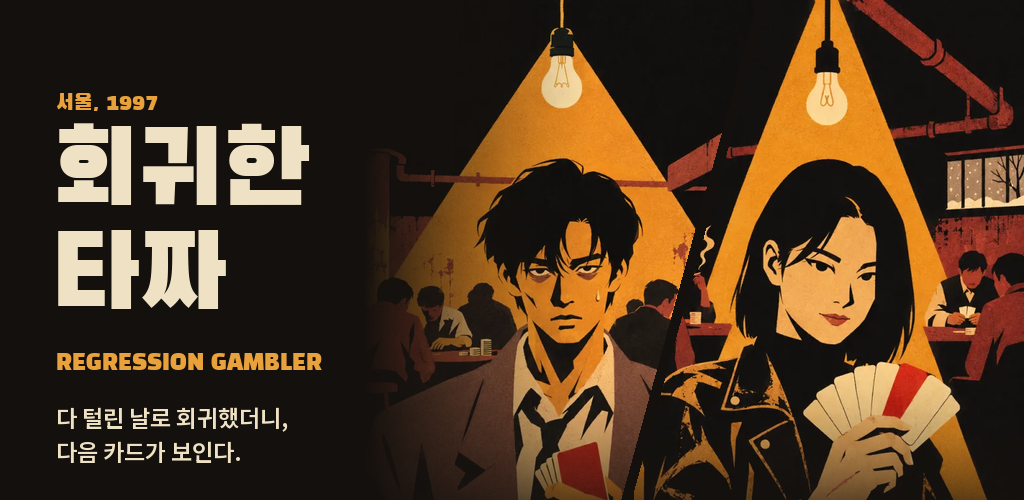
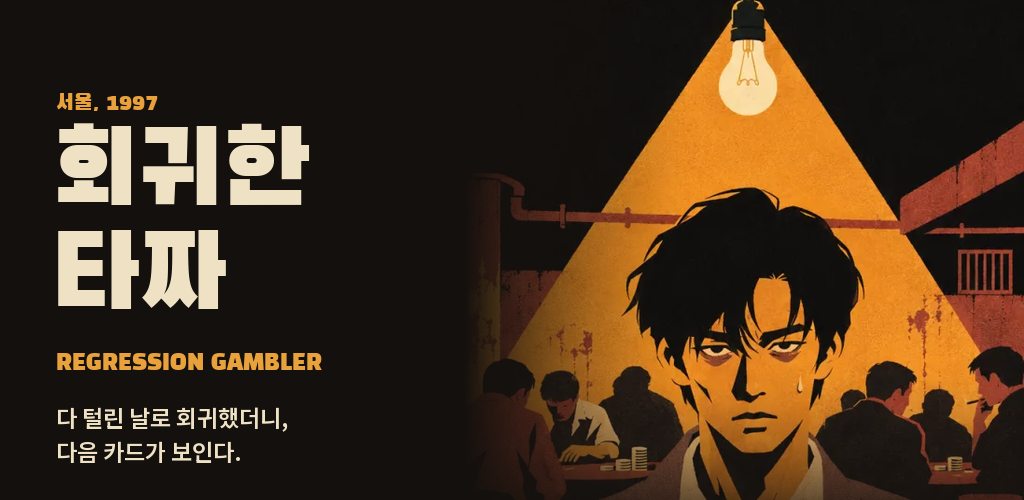
사이트에서 두 번째 주인공과 회귀자 대결을 뺀다
게임은 윤동욱 한 사람의 이야기로 시작하고, 그의 5장을 깨기 전에는
두 번째 주인공을 게임 안팎 어디에도 드러내지 않는다(게임 CLAUDE.md,
사용자 2026-11-22). 회귀자 대결은 게임에서 없어졌다.

- "주인공 둘 / Two heroes" 칸(차수진 카드, 회귀자 대결 설명)을 뺐다.
  그 자리에 윤동욱 한 사람을 소개하는 줄을 맨 앞에 두었다. 문구는
  store/metadata.json 의 새 스토어 설명 첫 문단에서 그대로 가져왔다.
- "장마다 따로 끝나는 이야기다 / Every night is a story of its own"를
  지웠다. 이제 이야기는 하나다.
- 목소리 줄의 "두 주인공 / both heroes"를 "주인공 / the hero"로,
  구매 칸에서 "주인공 둘 / two heroes"와 "회귀자 대결"을 뺐다.
- 링크 미리보기 feature.png 를 윤동욱 한 사람 구도로 다시 만들었다
  (tools/make_feature.py).
- 쓰지 않게 된 art/hero_sujin.webp 를 지웠다. 쓰지 않는 .heroes/.who CSS도 지웠다.

diff --git a/index.html b/index.html
@@ -86,17 +86,6 @@
   .red { color: var(--brick); font-weight: 700; }
   .amber { color: var(--amber); }
 
-  /* heroes */
-  .heroes { display: grid; grid-template-columns: 1fr 1fr; gap: 16px; margin-top: 20px; }
-  .who { position: relative; border-radius: 6px; overflow: hidden; background: var(--panel); }
-  .who img { width: 100%; aspect-ratio: 600 / 760; object-fit: cover; object-position: center top; }
-  .who div { padding: 14px 16px 6px; }
-  .who h3 { margin: 0; font-family: var(--display); font-weight: 400; font-size: 24px; line-height: 1.25; }
-  .who h3 span { font-family: system-ui, -apple-system, sans-serif; font-size: 13px; color: var(--amber); margin-left: 8px; letter-spacing: .08em; vertical-align: 3px; }
-  .who.hard h3 span { color: var(--brick); }
-  .who p { margin-top: 6px; }
-  .note { margin-top: 18px; font-size: 15px; }
-
   /* nights */
   .nights { display: grid; grid-template-columns: repeat(5, minmax(0, 1fr)); gap: 12px; margin-top: 22px; padding: 0; list-style: none; }
   .nights li { background: var(--panel); border-radius: 6px; overflow: hidden; display: flex; flex-direction: column; }
@@ -155,11 +144,6 @@
     .bar { gap: 10px; }
     .bar img { width: 34px; height: 34px; border-radius: 8px; }
     .bar b { font-size: 17px; }
-    .heroes { gap: 10px; }
-    .who div { padding: 10px 12px 2px; }
-    .who h3 { font-size: 20px; }
-    .who h3 span { display: block; margin: 2px 0 0; vertical-align: 0; }
-    .who p { font-size: 14px; }
   }
 </style>
 </head>
@@ -188,6 +172,20 @@
       </ul>
     </div>
   </div>
+
+  <section class="row flip">
+    <figure><img src="art/hero_dongwook.webp" width="600" height="1073" alt="" loading="lazy"></figure>
+    <div>
+      <div data-l="ko">
+        <h2><small>주인공</small>윤동욱</h2>
+        <p>1997년 겨울, 서울. 나라도 망해 가고 나도 망했다. 아버지 인쇄소의 어음 3,000만 원은 내일 아침 9시가 만기다.</p>
+      </div>
+      <div data-l="en" lang="en">
+        <h2><small>The hero</small>Danny Young</h2>
+        <p>Seoul, winter 1997. The country is going broke, and so are you. The ₩30 million note on your father's print shop is due at 9 a.m.</p>
+      </div>
+    </div>
+  </section>
 
   <section class="row">
     <figure><img src="art/cut_regress.webp" width="600" height="900" alt="" loading="lazy"></figure>
@@ -222,27 +220,9 @@
   </section>
 
   <section>
-    <h2><small data-l="ko">주인공 둘</small><small data-l="en" lang="en">Two heroes</small><span data-l="ko">누구로 회귀할까?</span><span data-l="en" lang="en">Who goes back?</span></h2>
-    <div class="heroes">
-      <article class="who">
-        <img src="art/hero_dongwook.webp" width="600" height="1073" alt="" loading="lazy">
-        <div data-l="ko"><h3>윤동욱<span>보통</span></h3><p>아버지 인쇄소 어음 3,000만. 내일 아침 9시까지 막아야 한다.</p></div>
-        <div data-l="en" lang="en"><h3>Danny Young<span>Normal</span></h3><p>A ₩30 million note on Dad's print shop. It has to be covered by 9 a.m. tomorrow.</p></div>
-      </article>
-      <article class="who hard">
-        <img src="art/hero_sujin.webp" width="600" height="1073" alt="" loading="lazy">
-        <div data-l="ko"><h3>차수진<span>어려움</span></h3><p>밑장 누명을 쓰고 쫓겨난 딜러. 이번엔 진짜로 뺀다.</p></div>
-        <div data-l="en" lang="en"><h3>Sue Chase<span>Hard</span></h3><p>A dealer framed for bottom dealing and thrown out. This time, she does it for real.</p></div>
-      </article>
-    </div>
-    <p class="note" data-l="ko">두 사람은 같은 밤을 산다. 한 사람으로 1장을 깨고 다른 사람으로 다시 하면, 먼저 깬 회귀자가 맞은편에 앉는다. <span class="amber">회귀자 대결</span>이다.</p>
-    <p class="note" data-l="en" lang="en">They live through the same nights. Clear chapter 1 as one, then play it as the other, and the first regressor sits down across from you. <span class="amber">The Regressor Duel.</span></p>
-  </section>
-
-  <section>
     <h2><small data-l="ko">다섯 개의 밤</small><small data-l="en" lang="en">Five nights</small><span data-l="ko">테이블 셋, 그리고 보스</span><span data-l="en" lang="en">Three tables, then the boss</span></h2>
-    <p data-l="ko">밤마다 손님 테이블 셋을 지나 보스 앞에 앉는다. 테이블 사이에서는 군밤 장수, 커피 심부름꾼 같은 스승이 기술을 하나씩 가르쳐 준다. 장마다 따로 끝나는 이야기다.</p>
-    <p data-l="en" lang="en">Every night you work through three tables before you sit down with the boss. In between, unlikely mentors, like a chestnut vendor and a coffee runner, each teach you a trick. Every night is a story of its own.</p>
+    <p data-l="ko">밤마다 손님 테이블 셋을 지나 보스 앞에 앉는다. 테이블 사이에서는 군밤 장수, 커피 심부름꾼 같은 스승이 기술을 하나씩 가르쳐 준다.</p>
+    <p data-l="en" lang="en">Every night you work through three tables before you sit down with the boss. In between, unlikely mentors, like a chestnut vendor and a coffee runner, each teach you a trick.</p>
     <ul class="nights">
       <li>
         <img src="art/kang_watch.webp" width="750" height="504" alt="" loading="lazy">
@@ -272,13 +252,13 @@
     </ul>
     <ul class="list" data-l="ko">
       <li>회귀한 뒤에는 이긴 테이블을 건너뛸 수 있다.</li>
-      <li>보스와 두 주인공은 목소리로 말한다. 한국어와 영어로 녹음했다.</li>
+      <li>보스와 주인공은 목소리로 말한다. 한국어와 영어로 녹음했다.</li>
       <li>밤마다 다른 음악. 첫 밤은 지하 하우스의 재즈다.</li>
       <li>광고는 없다. 인터넷이 없어도 된다.</li>
     </ul>
     <ul class="list" data-l="en" lang="en">
       <li>Once you've gone back, you can skip the tables you've already won.</li>
-      <li>The bosses and both heroes speak their lines, recorded in Korean and English.</li>
+      <li>The bosses and the hero speak their lines, recorded in Korean and English.</li>
       <li>A different score every night, starting with basement jazz.</li>
       <li>No ads. No internet connection needed.</li>
     </ul>
@@ -288,13 +268,13 @@
     <div class="ticket">
       <div class="main" data-l="ko">
         <h3>전체 이야기 열기</h3>
-        <p><b>다섯 개의 밤 · 보스 다섯 · 주인공 둘</b></p>
-        <p>1장의 첫 테이블은 무료로 해 볼 수 있다. 한 번 사면 회귀자 대결과 황 회장의 마지막 밤까지 다 열린다. 광고는 없고, 게임 머니는 팔지 않는다.</p>
+        <p><b>다섯 개의 밤 · 보스 다섯</b></p>
+        <p>1장의 첫 테이블은 무료로 해 볼 수 있다. 한 번 사면 황 회장의 마지막 밤까지 다 열린다. 광고는 없고, 게임 머니는 팔지 않는다.</p>
       </div>
       <div class="main" data-l="en" lang="en">
         <h3>Unlock the Full Story</h3>
-        <p><b>Five nights · five bosses · two heroes</b></p>
-        <p>The first table of chapter 1 is free. One purchase opens everything, the Regressor Duel included, all the way to Chairman Hale's last night. No ads, and no play money for sale.</p>
+        <p><b>Five nights · five bosses</b></p>
+        <p>The first table of chapter 1 is free. One purchase opens everything, all the way to Chairman Hale's last night. No ads, and no play money for sale.</p>
       </div>
       <div class="stub">
         <span class="price">$9.99</span>

diff --git a/tools/make_feature.py b/tools/make_feature.py
@@ -6,30 +6,19 @@ W, H = 1024, 500
 BLACK = (0x14, 0x10, 0x0d); AMBER = (0xe9, 0xa2, 0x3b); BRICK = (0xa8, 0x40, 0x2c); CREAM = (0xef, 0xe2, 0xc4)
 img = Image.new('RGB', (W, H), BLACK)
 
-def hero(name, w):
+def hero(name, w, top):
     im = Image.open(f'{G}/art/{name}.webp').convert('RGB')
     h = round(im.height * w / im.width)
-    return im.resize((w, h), Image.LANCZOS).crop((0, 0, w, H))
+    return im.resize((w, h), Image.LANCZOS).crop((0, top, w, top + H))
 
-# two heroes on the right, cut apart by a slanted ink line (like the menu poster)
-PW = 330
-left_x, right_x = W - 2 * PW + 40, W - PW
-d_img = hero('hero_dongwook', PW + 60)
-s_img = hero('hero_sujin', PW + 60)
-img.paste(d_img, (left_x - 40, 0))
-mask = Image.new('L', (W, H), 0)
-md = ImageDraw.Draw(mask)
-slant = 70
-md.polygon([(right_x + slant, 0), (W, 0), (W, H), (right_x - slant, H)], fill=255)
-layer = Image.new('RGB', (W, H), BLACK); layer.paste(s_img, (right_x - 60, 0))
-img = Image.composite(layer, img, mask)
-d = ImageDraw.Draw(img)
-d.line([(right_x + slant, -5), (right_x - slant, H + 5)], fill=BLACK, width=10)
+# the one hero, Danny Young (윤동욱), on the right under the bulb. The second hero stays off the site (game CLAUDE.md).
+PW, TOP = 560, 40
+x0 = W - PW
+img.paste(hero('hero_dongwook', PW, TOP), (x0, 0))
 
 # fade the left edge of the art into black for the text
 fade = Image.new('L', (W, H), 0)
 fd = ImageDraw.Draw(fade)
-x0 = left_x - 40
 for x in range(0, 230):
     a = int(255 * (1 - x / 230) ** 1.4)
     fd.line([(x0 + x, 0), (x0 + x, H)], fill=a)
